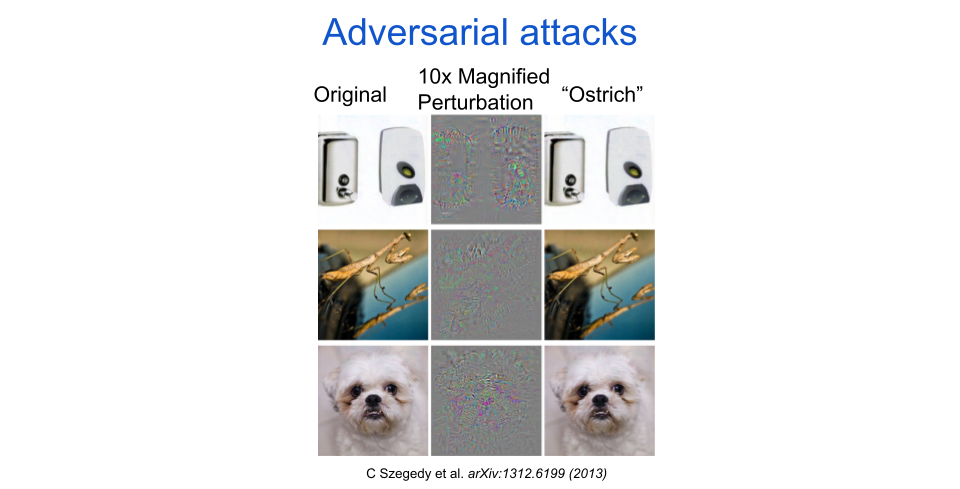
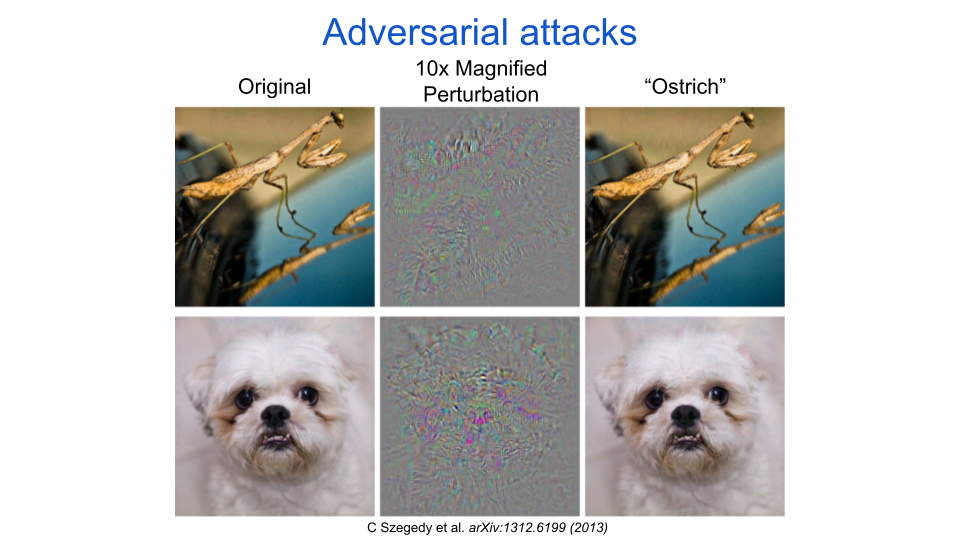
updates article summaries & adds more to adv post

diff --git a/_posts/2021-06-24-contour-robustness.md b/_posts/2021-06-24-contour-robustness.md
@@ -8,76 +8,41 @@ tags:
   - differential geometry
 ---
 
-Robustness and response curvature
-======
-
-Dylan M Paiton
+Defending against adversarial attacks is critical for modern AI applications. Here I describe how we can use an analytic method for summarizing the input-output relationship of neurons to predict how easy it is to attack them.
 ------
 
 This writeup is builds on my [previous post]({{site.url}}/posts/2021/05/response-geometry/) about using the curvature of a neuron's response surface to understand its behavior.
-If that idea is unfamiliar to you, then I recommend reading the previous post before this one.
+If that idea is unfamiliar to you, then I recommend reading that post before this one.
 
 ### Adversarial examples
 Adversarial examples are a worst-case demonstration of a deep neural network's (DNNs) inability to gracefully cope with small shifts in their inputs.
 To construct one, an adversary must modify, or _perturb_, the input in a very small but specific way such that the output of the DNN changes significantly.
-For DNNs trained on images, these perturbations can be so small that many monitors can't display the difference in pixel values.
-The figure below is adapted from an iconic example provided in [one of the early papers demonstrating adversarial attacks on DNNs, authored by Christian Szegedy and colleagues.]{https://arxiv.org/abs/1312.6199}.
-The original input images are in the left column and belong to the categories "speaker", "mantis", and "dog".
+The figure below is adapted from an iconic example provided in one of the [first papers](https://arxiv.org/abs/1312.6199) demonstrating adversarial attacks on DNNs, authored by Christian Szegedy and colleagues.
+The original input images are in the left column and belong to the categories "mantis" and "dog".
 The images in the middle column are adversarial perturbations, which can be added in to the original inputs to produce the adversarial inputs in the right column.
 All of the adversarial input images are labeled as "ostrich" by the network.
-In this example, the average perturbation size is 0.6% of one pixel, but they are magnified in the figure to demonstrate what they look like.
+The perturbations have to be magnified to allow you to see what they look like because their original scale is at the lower bound of what a typical computer image can convey.<a href="{{page.url}}#dagger"><sup>†</sup></a>
 Importantly, these attacks do not just apply to images.
 They have been demonstrated to work pretty much anywhere that DNNs are useful, and they almost always seem innocuous or are imperceptible for a person.
-Successful demonstrations include skewing text analysis that is used for [product review summaries, social media feeds, and search result rankings]{https://arxiv.org/pdf/1804.07998.pdf}, tricking your smart home device to [execute a command]{https://arxiv.org/abs/1801.01944}, and tricking a self-driving car to [mistake a stop sign for a yield sign]{https://arxiv.org/abs/1707.08945}.
+Successful demonstrations include tricking text analyzers that are used for [product review summaries, social media feeds, and search result rankings](https://arxiv.org/pdf/1804.07998.pdf), tricking smart home devices to [execute a command](https://arxiv.org/abs/1801.01944), and tricking a self-driving car to [mistake a stop sign for a yield sign](https://arxiv.org/abs/1707.08945).
 ![adversarial-images]
 
-At a high level (and in my humble opinion), I see adv examples as one of many pieces of evidence supporting the idea that DNNs don’t “perceive” like we do.
-That’s the long and short of it.
-A DNN practitioner may some day find a way to improve adv robustness to some industry-accepted level, but that is just whacking one of many moles.
-So I don’t think a research agenda focused on improving DNN adv defense is wise.
-However, adv examples do still serve as an interesting test of our own ideas.
-If we have an idea to explain perception, then our model better be robust to adv attacks.
-Also, if our goal is understanding how DNNs work, and less fixing DNNs, then there’s a lot to be gained in studying adv examples.
-
-My favorite perspective on adv examples is that of Seyed-Mohsen Moosavi-Dezfooli.
-He has several papers on the topic, which you can find on his scholar page, although tbh I’d recommend just skipping right to his PhD thesis.
-It is really well written and covers all of the papers.
-Part II is what you’re mostly interested in, but the whole thing is good. https://infoscience.epfl.ch/record/271933
-He takes a geometric perspective by looking at the curvature of the network’s decision boundaries to assess robustness.
-I believe such a geometric viewpoint is going to be necessary, and if anything we should be looking more closely at how to use differential geometry to understand the loss surface (wrt image perturbations — not to be confused with the loss surface wrt to parameter perturbations).
-I’d also recommend this paper: https://arxiv.org/abs/1811.00401 which gives a complementary perspective to the analysis associated with Fig 7.2 of Moosavi-Dezfooli’s thesis.
-This gives us insight into something that I think Bruno would argue is obvious for high-D spaces — that it’s easy to walk in a straight line from any one image to another while staying in the same classification region.
-We need to remember that high-D spaces provide massive freedom for an adversary to find an attack direction.
-I think this strongly supports an argument against adv training as a reasonable defense.
-You’re never going to patch all of the holes.
-And even if you could, hole patching is a horribly inefficient approach.
-I like this paper a lot too: https://arxiv.org/abs/1704.03453.
-It has some flaws in the methodology, the biggest one being that the projection operator they do to keep the image in [0, 1] bounds destroys the orthogonality constraint when measuring dimensionality and they never test linear independence.
-So their estimate of the dimensionality of the adversarial space is not to be believed.
-Regardless, this line of thinking is again taking more of a geometric approach.
-Understanding the ‘adversarial dimensionality’ is very important for defending against them and for understanding the decision surface in general.
-I think we can define adv attacks as any image perturbation that is designed to modify the outcome of the classifier in a specific (i.e. non-random) way.
-As you point out, adversarial attacks will always exist.
-And as you point out, with my broad definition they are not all interesting.
-In my opinion (which I discuss in my own paper) there are two key components to adversarial examples that make them interesting: 1) the size of the perturbation and 2) the semantic content of the perturbation.
-These two things are related.
-
-An example of interesting semantic content could be a stroke in the middle of a 0 to make it look like an 8, or [putting wheels on a canoe]{https://johnnygraphicadventures.files.wordpress.com/2014/05/104_0392.jpg?w=1054&h=790} to trick the classifier into thinking it is a bicycle.
-This is a fairly reasonable mistake, and therefore not interesting.
-If the perturbation were extremely tiny, to the point where it’s basically imperceptible to a human, then it would be more interesting, because the network should not care so much about any perturbation that is so small.
-The most interesting thing, though, is that we can make mostly nonsense and tiny perturbations to trick the classifier.
-Not only this, but these nonsense perturbations are consistently the ones that we find with gradient based methods.
-So yes, while adv attacks will always exist, once they gets big enough we can just call them reasonable, and the same goes for once they looks sufficiently semantically interesting.
-
-As an aside: I think the common assumption is that we find nonsense perturbations because those directions are more optimal than semantically meaningful perturbations.
-I mostly agree with this.
-There’s a counter argument that semantically meaningless perturbations are just more common and not necessarily more optimal.
-However, a lot of papers have found that successful adv defenses (e.g. my paper, here, and here) result in more semantically meaningful adv attacks that are also larger in magnitude.
-If you think about it, it makes sense that nonsense perturbation directions that are never in the training set can get you closer to the decision boundary than semantically interesting perturbation directions.
+At a high level, adversarial examples are one of many pieces of evidence supporting the idea that DNNs don’t [perceive the world like we do](https://www.nytimes.com/2018/11/05/opinion/artificial-intelligence-machine-learning.html).
+Given that there are other mismatches, exclustively setting out to solve adversarial succeptibility in DNNs is unlikely to align human and machine perception.
+However, adversarial examples still serve as a valuable test of ideas in neural computation: if we have an idea to explain perception, then our model of the idea had better be robust to adversarial attacks.
+This brings up another question: what even does it mean to be robust to such attacks?
+To define the solution we should also be careful in our definition of the problem.
+As I described before, _adversarial examples_ are perturbations to the input of a network that are small in magnitude but cause a big enough shift in its output to change its behavior.
+Often times, they are also semantically unrelated to the new output of the network -- the "ostrich" perturbation is not recognizable as an ostrich.
+These two criteria, small size and uninterpretable semantic quality, are what makes them so interesting to researchers.
+There are adversarial perturbations that could trick a classifier but would not be interesting, such as adding a horizontal stroke to a "0" to trick a classifer into calling it an "8", or [putting wheels on a canoe](https://johnnygraphicadventures.files.wordpress.com/2014/05/104_0392.jpg?w=1054&h=790) to trick the classifier into thinking it is a bicycle.
+If these were the types of adversarial attacks demonstrated by Szegedy and colleagues, then no one would have paid any attention.
+Unfortunately we do not have a good way to measure "semantic quality", so the research community typically uses the average size of the perturbations to measure robustness.
+However, they do often also show examples of perturbed inputs to allow readers to judge for themselves whether the semantic content is reasonable given the original and new network outputs.
+With this definition in hand, we next need to understand how such an attack is created.
 
 ### Gradients
-So how does one construct such an attack?
-Of course there are many methods, and they can roughly be categorized by how much access they have to the network they are attacking.
+There are many methods for constructing adversarial perturbations and they can roughly be categorized by how much access they have to the network they are attacking.
 It is possible to perform such an attack by only knowing the general goal of the network (e.g. "classify images"), but the most successful attacks have direct access to the network.
 This direct access allows the attacker to compute _gradients_, which ideally result in an exact signal for the smallest possible perturbation required to trick the network.
 
@@ -149,5 +114,8 @@ If we expand our previous example to consider a two-layer network, as shown belo
 
 ### Wrapup
 <!--- wrapup  -->
+
+### Footnotes
+<a name="dagger">†</a> Computer images are composed of pixels that each take on one of 256 possible values. This is the same as saying that they are 8-bit images. If one were to rescale the pixel values to be between 0 and 1, then the average pixel perturbation size for the examples from Szegedy et al. is 0.006. This corresponds to changing a single pixel by about 2, or in reality changing many pixels by less than 1. As such, adversarial perturbations are often smaller than the available bit-depth of current displays.
 
 [adversarial-images]: /images/adversarial-robustness/adversarial-robustness.png

diff --git a/_posts/2021-05-18-neuron-response-contours.md b/_posts/2021-05-18-neuron-response-contours.md
@@ -8,7 +8,7 @@ tags:
   - deep net interpretability
 ---
 
-Dylan M Paiton
+Scientists have long summarized neurons by describing the relationship between their inputs and outputs. Here I describe a new technique that allows us to go beyond previous approaches to succicinctly describe important and complex neural behavior.
 ------
 
 ![curvatures]
@@ -252,6 +252,7 @@ In summary, the big takeaways are:
 
 There is much more that we can learn by looking at the curvature of the iso-response surfaces, which I will discuss in upcoming posts.
 In the interum, if you are eager to read more, check out [my own paper](/publication/2020-11-02-selectivity-and), as well as the work of [James Golden et al. (PDF)](http://jamesgolden.net/wp-content/uploads/2017/10/golden_vilankar_wu_field_conjectures_nonlinear_geometry_vision_research_2016_preprint.pdf).
+
 
 [curvatures]: /images/response-geometry/curvatures.png
 [2d-plane]: /images/response-geometry/2d-plane.png
